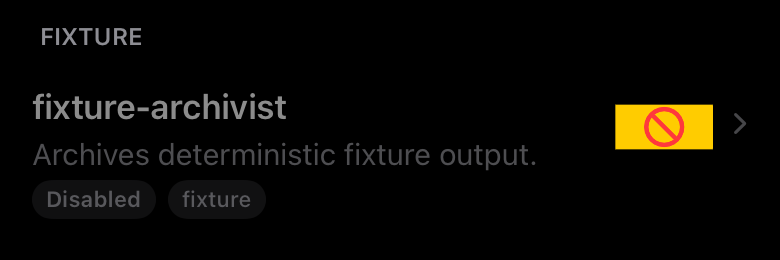
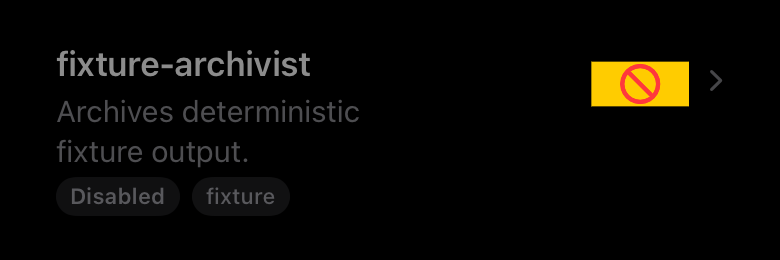
TAL-477: review fixes for the sidebar kit and the sidebar close
- Archived, Scheduled and Webhook lists draw through SidebarList too.
- A collapsible heading is a HapticButton, its open state uses named keys
  the UI-test fixture resets, and static rows share sidebarRowPadding().
- Memory's and Tasks' row groups fold back into their only views; the kit
  and skill-row files are named for what they hold.
- The disabled-skill reference renders SkillRows again, so it checks the
  full-strength switch slot (TAL-467), and is re-recorded.
- The sidebar's animation no longer skips the content: the deferred close
  alone keeps picking a section smooth.
- Panel test reads the running count from the Scheduled Jobs heading.
- changelog.d/TAL-477.json.

diff --git a/app/Talaria/Features/Shared/SidebarKit.swift b/app/Talaria/Features/Shared/SidebarKit.swift
@@ -46,9 +46,25 @@ struct SidebarList<Content: View>: View {
 /// A section heading inside a `SidebarList`, styled like Chats' "Sessions".
 struct SidebarSectionHeader<Trailing: View>: View {
     let title: String?
+    /// Makes the heading a button, for a collapsible section.
+    var toggle: (() -> Void)?
     @ViewBuilder let trailing: Trailing
 
     var body: some View {
+        Group {
+            if let toggle {
+                HapticButton(action: toggle) {
+                    label.contentShape(Rectangle())
+                }
+                .buttonStyle(.plain)
+            } else {
+                label
+            }
+        }
+        .sessionsScreenListRow()
+    }
+
+    private var label: some View {
         HStack(spacing: 10) {
             if let title {
                 Text(title)
@@ -62,7 +78,6 @@ struct SidebarSectionHeader<Trailing: View>: View {
         .padding(.horizontal, 24)
         .padding(.top, 16)
         .padding(.bottom, 8)
-        .sessionsScreenListRow()
     }
 }
 
@@ -73,7 +88,7 @@ extension SidebarSectionHeader where Trailing == EmptyView {
 }
 
 /// A collapsible section of a `SidebarList`: a `SidebarSectionHeader` with the Chats disclosure
-/// chevron, and its rows while open. Open state is device-local and remembered per `id`.
+/// chevron, and its rows while open. Open state is device-local and stored under `storageKey`.
 struct SidebarDisclosureSection<Trailing: View, Content: View>: View {
     @Environment(\.accessibilityReduceMotion) private var reduceMotion
     @AppStorage private var isExpanded: Bool
@@ -83,27 +98,22 @@ struct SidebarDisclosureSection<Trailing: View, Content: View>: View {
 
     init(
         _ title: String,
-        id: String,
+        storageKey: String,
         @ViewBuilder trailing: () -> Trailing,
         @ViewBuilder content: () -> Content
     ) {
         self.title = title
-        _isExpanded = AppStorage(wrappedValue: true, "sidebarSection.\(id).isExpanded")
+        _isExpanded = AppStorage(wrappedValue: true, storageKey)
         self.trailing = trailing()
         self.content = content()
     }
 
     var body: some View {
-        SidebarSectionHeader(title: title) {
+        SidebarSectionHeader(title: title, toggle: toggle) {
             trailing
             SidebarDisclosureChevron(isExpanded: isExpanded)
         }
-        .contentShape(Rectangle())
-        .onTapGesture(perform: toggle)
-        .accessibilityElement(children: .combine)
-        .accessibilityAddTraits(.isButton)
         .accessibilityValue(isExpanded ? Text("Expanded") : Text("Collapsed"))
-        .accessibilityAction(.default, toggle)
 
         if isExpanded {
             content
@@ -118,8 +128,8 @@ struct SidebarDisclosureSection<Trailing: View, Content: View>: View {
 }
 
 extension SidebarDisclosureSection where Trailing == EmptyView {
-    init(_ title: String, id: String, @ViewBuilder content: () -> Content) {
-        self.init(title, id: id, trailing: { EmptyView() }, content: content)
+    init(_ title: String, storageKey: String, @ViewBuilder content: () -> Content) {
+        self.init(title, storageKey: storageKey, trailing: { EmptyView() }, content: content)
     }
 }
 
@@ -132,9 +142,7 @@ struct SidebarRow<Label: View>: View {
     var body: some View {
         Button(action: action) {
             label
-                .padding(.horizontal, 12)
-                .padding(.vertical, 8)
-                .frame(minHeight: 44)
+                .sidebarRowPadding()
                 .contentShape(Rectangle())
         }
         .buttonStyle(.plain)
@@ -151,6 +159,13 @@ extension View {
             in: RoundedRectangle(cornerRadius: 12, style: .continuous)
         )
         .accessibilityAddTraits(isSelected ? .isSelected : [])
+    }
+
+    /// A `SidebarList` row's content padding, for rows with and without an action.
+    func sidebarRowPadding() -> some View {
+        padding(.horizontal, 12)
+            .padding(.vertical, 8)
+            .frame(minHeight: 44)
     }
 
     /// A `SidebarList` row's insets and selection tint.

diff --git a/app/Talaria/Features/Settings/ArchivedSessionsView.swift b/app/Talaria/Features/Settings/ArchivedSessionsView.swift
@@ -64,41 +64,37 @@ struct ArchivedSessionsView: View {
 
     @ViewBuilder
     private var content: some View {
-        ScrollView {
-            LazyVStack(alignment: .leading, spacing: 0) {
-                if viewModel.isLoading && viewModel.sessions.isEmpty {
-                    ArchivedStatusRow(title: String(localized: "Loading archived sessions..."), systemImage: "archivebox")
-                        .padding(.horizontal, 24)
-                } else if let errorMessage = viewModel.errorMessage, viewModel.sessions.isEmpty {
-                    VStack(alignment: .leading, spacing: 10) {
-                        ArchivedStatusRow(title: String(localized: "Could not load archived sessions"), systemImage: "exclamationmark.triangle")
-
-                        Text(errorMessage)
-                            .font(.footnote)
-                            .foregroundStyle(.secondary)
-                            .lineLimit(3)
-
-                        Button("Try Again") {
-                            Task { await load() }
-                        }
-                        .font(.subheadline.weight(.medium))
-                        .foregroundStyle(.primary)
-                    }
+        SidebarList {
+            if viewModel.isLoading && viewModel.sessions.isEmpty {
+                ArchivedStatusRow(title: String(localized: "Loading archived sessions..."), systemImage: "archivebox")
                     .padding(.horizontal, 24)
-                } else if viewModel.sessions.isEmpty {
-                    ArchivedStatusRow(title: String(localized: "No archived sessions"), systemImage: "archivebox")
-                        .padding(.horizontal, 24)
-                } else {
-                    VStack(spacing: 2) {
-                        ForEach(viewModel.sessions) { session in
-                            archivedSessionRow(for: session)
-                        }
+                    .sessionsScreenListRow()
+            } else if let errorMessage = viewModel.errorMessage, viewModel.sessions.isEmpty {
+                VStack(alignment: .leading, spacing: 10) {
+                    ArchivedStatusRow(title: String(localized: "Could not load archived sessions"), systemImage: "exclamationmark.triangle")
+
+                    Text(errorMessage)
+                        .font(.footnote)
+                        .foregroundStyle(.secondary)
+                        .lineLimit(3)
+
+                    Button("Try Again") {
+                        Task { await load() }
                     }
-                    .padding(.horizontal, 12)
+                    .font(.subheadline.weight(.medium))
+                    .foregroundStyle(.primary)
+                }
+                .padding(.horizontal, 24)
+                .sessionsScreenListRow()
+            } else if viewModel.sessions.isEmpty {
+                ArchivedStatusRow(title: String(localized: "No archived sessions"), systemImage: "archivebox")
+                    .padding(.horizontal, 24)
+                    .sessionsScreenListRow()
+            } else {
+                ForEach(viewModel.sessions) { session in
+                    archivedSessionRow(for: session)
                 }
             }
-            .padding(.top, 28)
-            .padding(.bottom, 44)
         }
     }
 
@@ -121,7 +117,6 @@ struct ArchivedSessionsView: View {
 
             unarchiveButton(for: session)
         }
-        .selectedRowBackground(session.sessionId == selectedSessionID)
         .contextMenu {
             Button {
                 unarchive(session)
@@ -130,6 +125,7 @@ struct ArchivedSessionsView: View {
             }
             .disabled(viewModel.isUnarchiving(session))
         }
+        .sidebarRow(isSelected: session.sessionId == selectedSessionID)
     }
 
     /// Always-visible unarchive affordance; the context menu keeps the same

diff --git a/app/Talaria/Features/Tasks/TasksView.swift b/app/Talaria/Features/Tasks/TasksView.swift
@@ -75,7 +75,7 @@ struct TasksView: View {
             }
         } else {
             SidebarList {
-                TaskRows(viewModel: viewModel, selection: $selection)
+                taskRows
             }
             .refreshable {
                 await loadTasks()
@@ -96,15 +96,22 @@ struct TasksView: View {
     }
 }
 
-/// Recent completions and scheduled jobs with the running count, for any `SidebarList`.
-struct TaskRows: View {
-    let viewModel: TasksViewModel
-    @Binding var selection: SectionItem?
+/// Where the Tasks list remembers which of its sections are collapsed.
+enum TaskSidebarDisclosureKeys {
+    static let recentCompletions = "tasksSidebar.recentCompletionsAreExpanded"
+    static let scheduledJobs = "tasksSidebar.scheduledJobsAreExpanded"
+}
 
-    var body: some View {
+private extension TasksView {
+    /// Recent completions and scheduled jobs with the running count.
+    @ViewBuilder
+    var taskRows: some View {
         if !viewModel.recentCompletions.isEmpty {
             // One row per job (its latest run), not a run archive.
-            SidebarDisclosureSection(String(localized: "Recent Completions"), id: "tasks.recent") {
+            SidebarDisclosureSection(
+                String(localized: "Recent Completions"),
+                storageKey: TaskSidebarDisclosureKeys.recentCompletions
+            ) {
                 ForEach(viewModel.recentCompletions) { completion in
                     if let job = viewModel.job(for: completion) {
                         SectionSelectionRow(item: .task(id: job.id), selection: $selection) {
@@ -112,14 +119,14 @@ struct TaskRows: View {
                         }
                     } else {
                         CronCompletionRowView(completion: completion)
-                            .padding(.horizontal, 12)
+                            .sidebarRowPadding()
                             .sidebarRow(isSelected: false)
                     }
                 }
             }
         }
 
-        SidebarDisclosureSection(String(localized: "Scheduled Jobs"), id: "tasks.jobs") {
+        SidebarDisclosureSection(String(localized: "Scheduled Jobs"), storageKey: TaskSidebarDisclosureKeys.scheduledJobs) {
             Label("\(viewModel.activeRunningCount) running", systemImage: "bolt.fill")
                 .font(.subheadline)
                 .foregroundStyle(.secondary)
@@ -128,7 +135,7 @@ struct TaskRows: View {
                 // Stale completions can outlive their jobs; keep the feed visible.
                 Text("No scheduled jobs.")
                     .foregroundStyle(.secondary)
-                    .padding(.horizontal, 12)
+                    .sidebarRowPadding()
                     .sidebarRow(isSelected: false)
             }
             ForEach(viewModel.jobs) { job in

diff --git a/app/Talaria/Config/UITestFixture.swift b/app/Talaria/Config/UITestFixture.swift
@@ -125,10 +125,12 @@ struct UITestFixtureEnvironment {
         // Response Complete Alerts start off and unasked, so a journey turns them on in Settings.
         UserDefaults.standard.set(false, forKey: ResponseCompletionNotifications.isEnabledKey)
         UserDefaults.standard.removeObject(forKey: ResponseCompletionNotifications.hasRequestedPermissionKey)
-        // The scheduled and webhook groups start collapsed, as on a fresh install, rather than as an earlier test left
-        // them on this simulator.
+        // The scheduled and webhook groups start collapsed and the Tasks sections open, as on a fresh install, rather
+        // than as an earlier test left them on this simulator.
         UserDefaults.standard.removeObject(forKey: SessionSidebarDisclosureSettings.scheduledSessionsAreExpandedKey)
         UserDefaults.standard.removeObject(forKey: SessionSidebarDisclosureSettings.webhookSessionsAreExpandedKey)
+        UserDefaults.standard.removeObject(forKey: TaskSidebarDisclosureKeys.recentCompletions)
+        UserDefaults.standard.removeObject(forKey: TaskSidebarDisclosureKeys.scheduledJobs)
 
         let keychain = UITestFixtureKeychainStore(serverURL: serverURL)
         let defaultsName = "dev.kil.talaria.ui-test-fixture"

diff --git a/app/Talaria/Features/Skills/SkillRow.swift b/app/Talaria/Features/Skills/SkillRow.swift
@@ -49,8 +49,8 @@ struct SkillRow: View {
 
             Spacer(minLength: 8)
 
-            // Holds the switch's place only. The live switch sits over the row's NavigationLink
-            // in `SkillCategorySection`; inside the link's label the link could take its taps.
+            // Holds the switch's place only. The live switch sits over the row's button
+            // in `SkillRows`; inside the button's label the button could take its taps.
             if let onToggle {
                 SkillToggle(skill: skill, isToggling: isToggling, onToggle: onToggle)
                     .hidden()
@@ -98,7 +98,7 @@ struct SkillRow: View {
     }
 }
 
-/// A skill row's Enable/Disable switch. `SkillCategorySection` draws it over the row, outside
+/// A skill row's Enable/Disable switch. `SkillRows` draws it over the row, outside
 /// the row's NavigationLink, so a tap on the switch never opens the skill (TAL-647).
 struct SkillToggle: View {
     let skill: SkillSummary

diff --git a/app/Talaria/Features/Memory/MemoryView.swift b/app/Talaria/Features/Memory/MemoryView.swift
@@ -38,7 +38,7 @@ struct MemoryView: View {
             ProgressView("Loading memory...")
         } else {
             SidebarList {
-                MemoryFileRows(viewModel: viewModel, selection: $selection)
+                fileRows
             }
             .refreshable {
                 await loadMemory(viewModel, onAPIError: onAPIError)
@@ -47,12 +47,10 @@ struct MemoryView: View {
     }
 }
 
-/// One row per Memory document, for any `SidebarList`.
-struct MemoryFileRows: View {
-    let viewModel: MemoryViewModel
-    @Binding var selection: SectionItem?
-
-    var body: some View {
+private extension MemoryView {
+    /// One row per Memory document.
+    @ViewBuilder
+    var fileRows: some View {
         ForEach(MemorySection.allCases) { section in
             SectionSelectionRow(item: .memory(.section(section)), selection: $selection) {
                 MemoryHeaderRow(

diff --git a/app/TalariaTests/AppScreenVisualReferenceTests.swift b/app/TalariaTests/AppScreenVisualReferenceTests.swift
@@ -146,7 +146,12 @@ final class AppScreenVisualReferenceTests: XCTestCase {
 
         for scheme in [ColorScheme.light, .dark] {
             try VisualReference.assertMatchesReference(
-                SkillRow(skill: skill)
+                SkillRows(
+                    skills: [skill],
+                    selection: .constant(nil),
+                    togglingSkillNames: [],
+                    onToggleSkill: { _, _ in }
+                )
                 .padding(.horizontal, 16),
                 named: "skill-row-disabled-\(name(for: scheme))",
                 size: CGSize(width: 390, height: 130),

diff --git a/app/Talaria/Features/SessionList/GroupedSessionsView.swift b/app/Talaria/Features/SessionList/GroupedSessionsView.swift
@@ -15,7 +15,7 @@ struct GroupedSessionsView: View {
     @State private var searchText = ""
 
     var body: some View {
-        List {
+        SidebarList {
             if sessions.isEmpty {
                 SessionListStatusRow(
                     title: searchText.isEmpty
@@ -42,9 +42,6 @@ struct GroupedSessionsView: View {
                 }
             }
         }
-        .listStyle(.plain)
-        .environment(\.defaultMinListRowHeight, 0)
-        .scrollContentBackground(.hidden)
         .navigationTitle(title)
         .searchable(text: $searchText, prompt: "Search sessions")
     }

diff --git a/app/Talaria/Features/SessionList/AppSidebarContainer.swift b/app/Talaria/Features/SessionList/AppSidebarContainer.swift
@@ -44,9 +44,6 @@ struct AppSidebarContainer<Sidebar: View, Content: View>: View {
                     .opacity(reduceMotion ? 1 : 0.25 + 0.75 * progress)
 
                 content
-                    // Only the surface slides; a section picked in the sidebar swaps in at once
-                    // instead of animating every list and toolbar under the slide.
-                    .transaction(value: isPresented) { $0.animation = nil }
                     .frame(width: surfaceWidth, height: surfaceHeight)
                     .overlay {
                         if isPresented {
